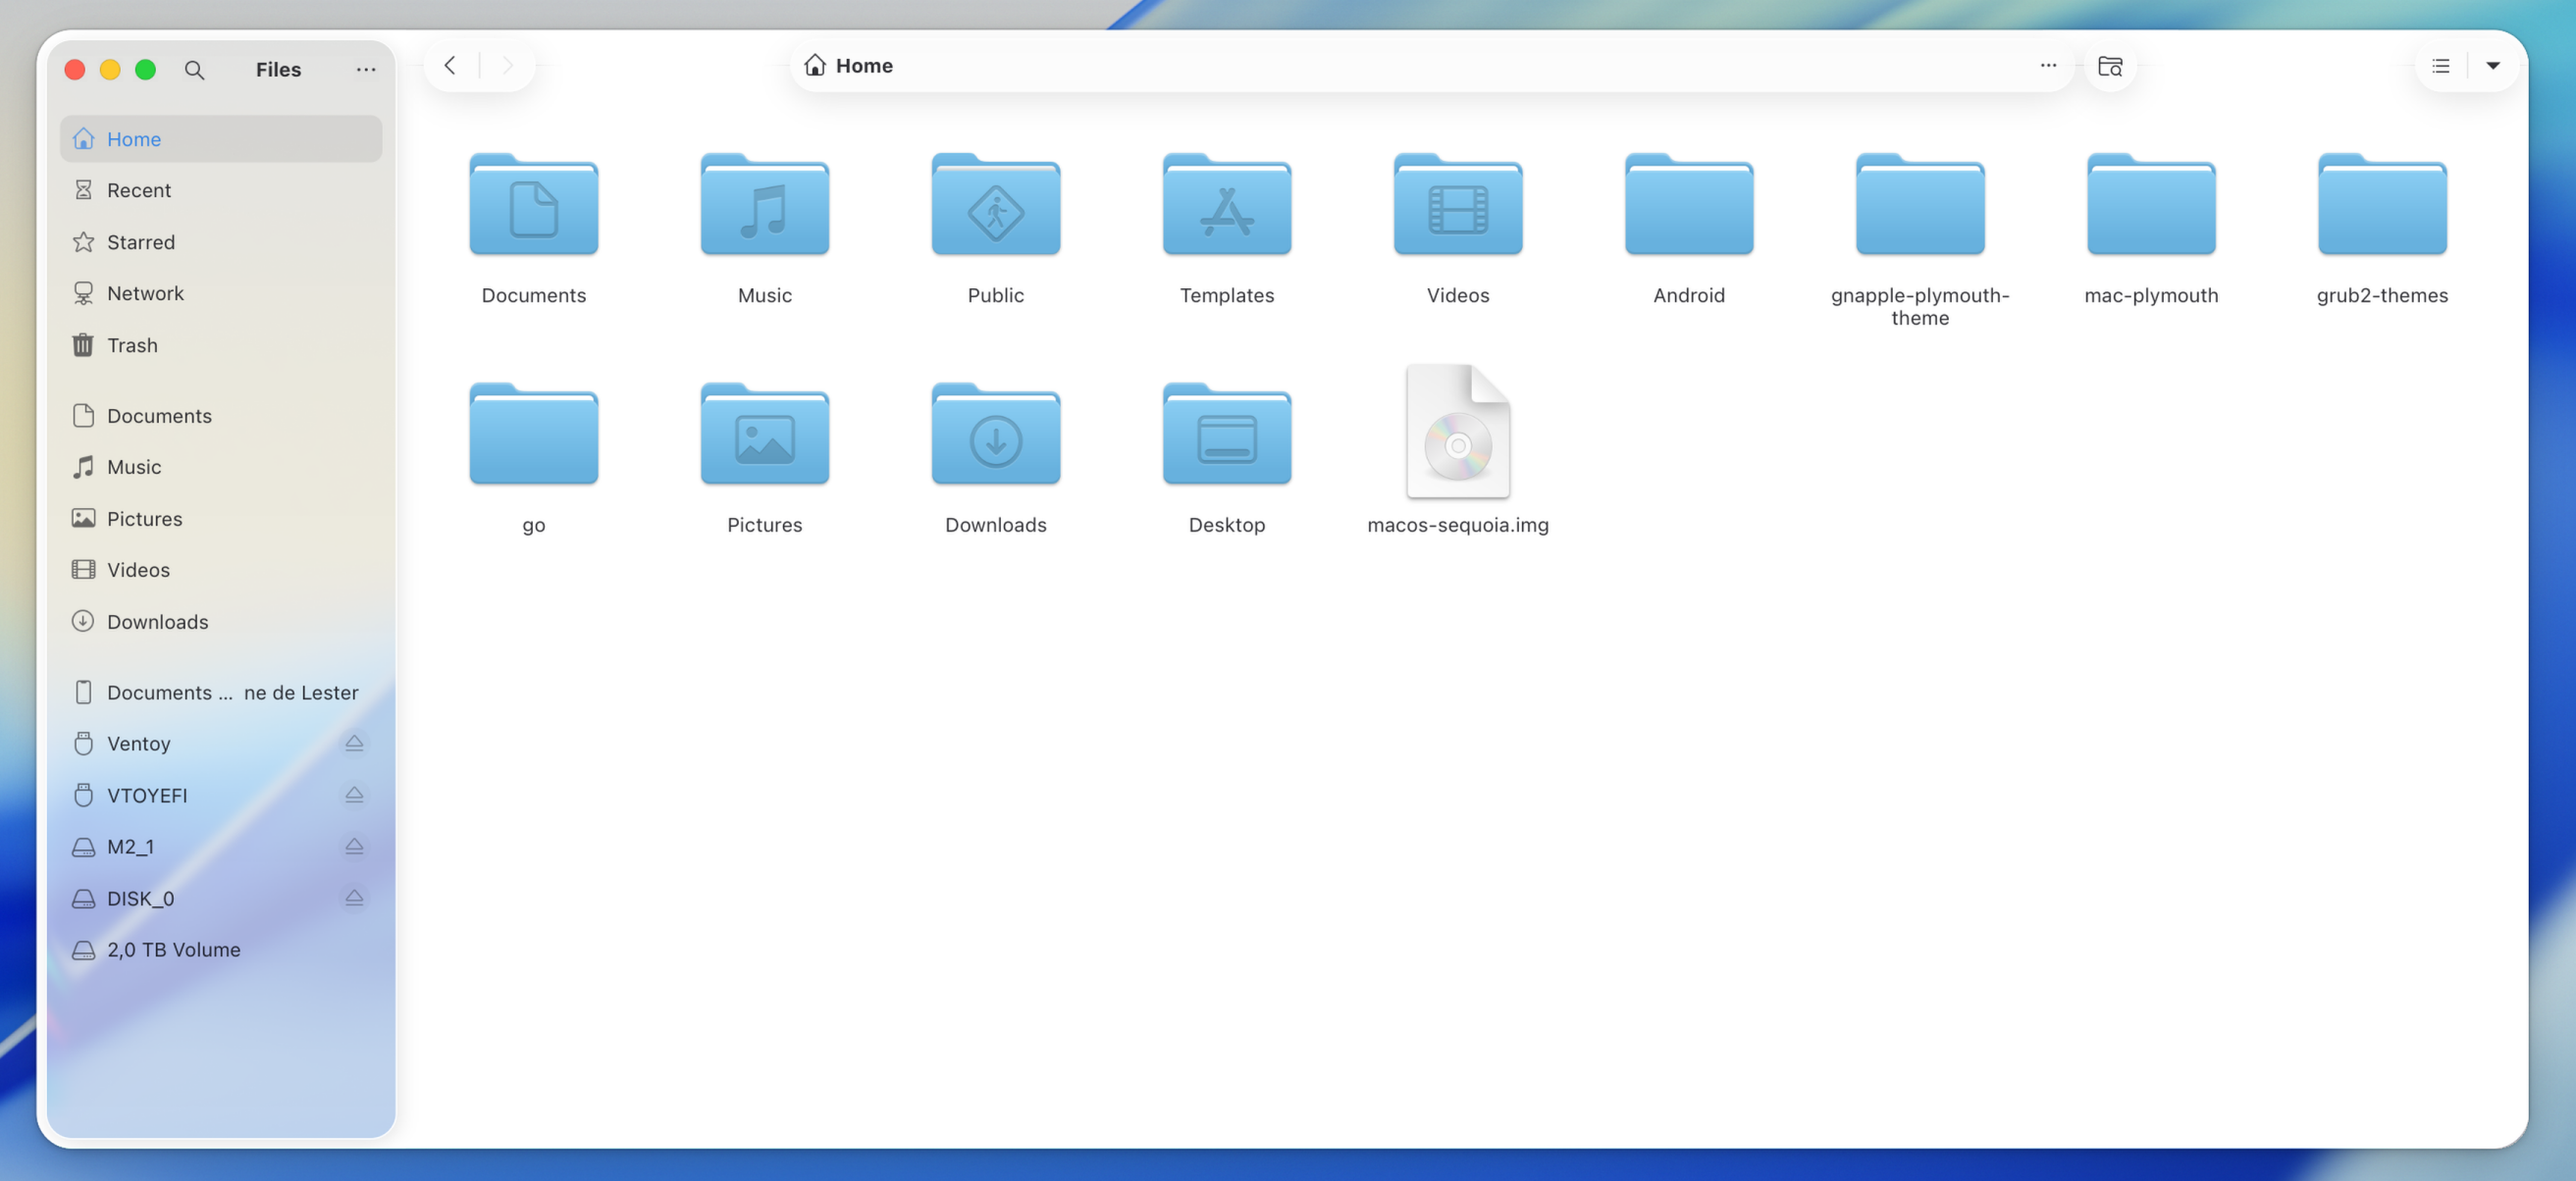
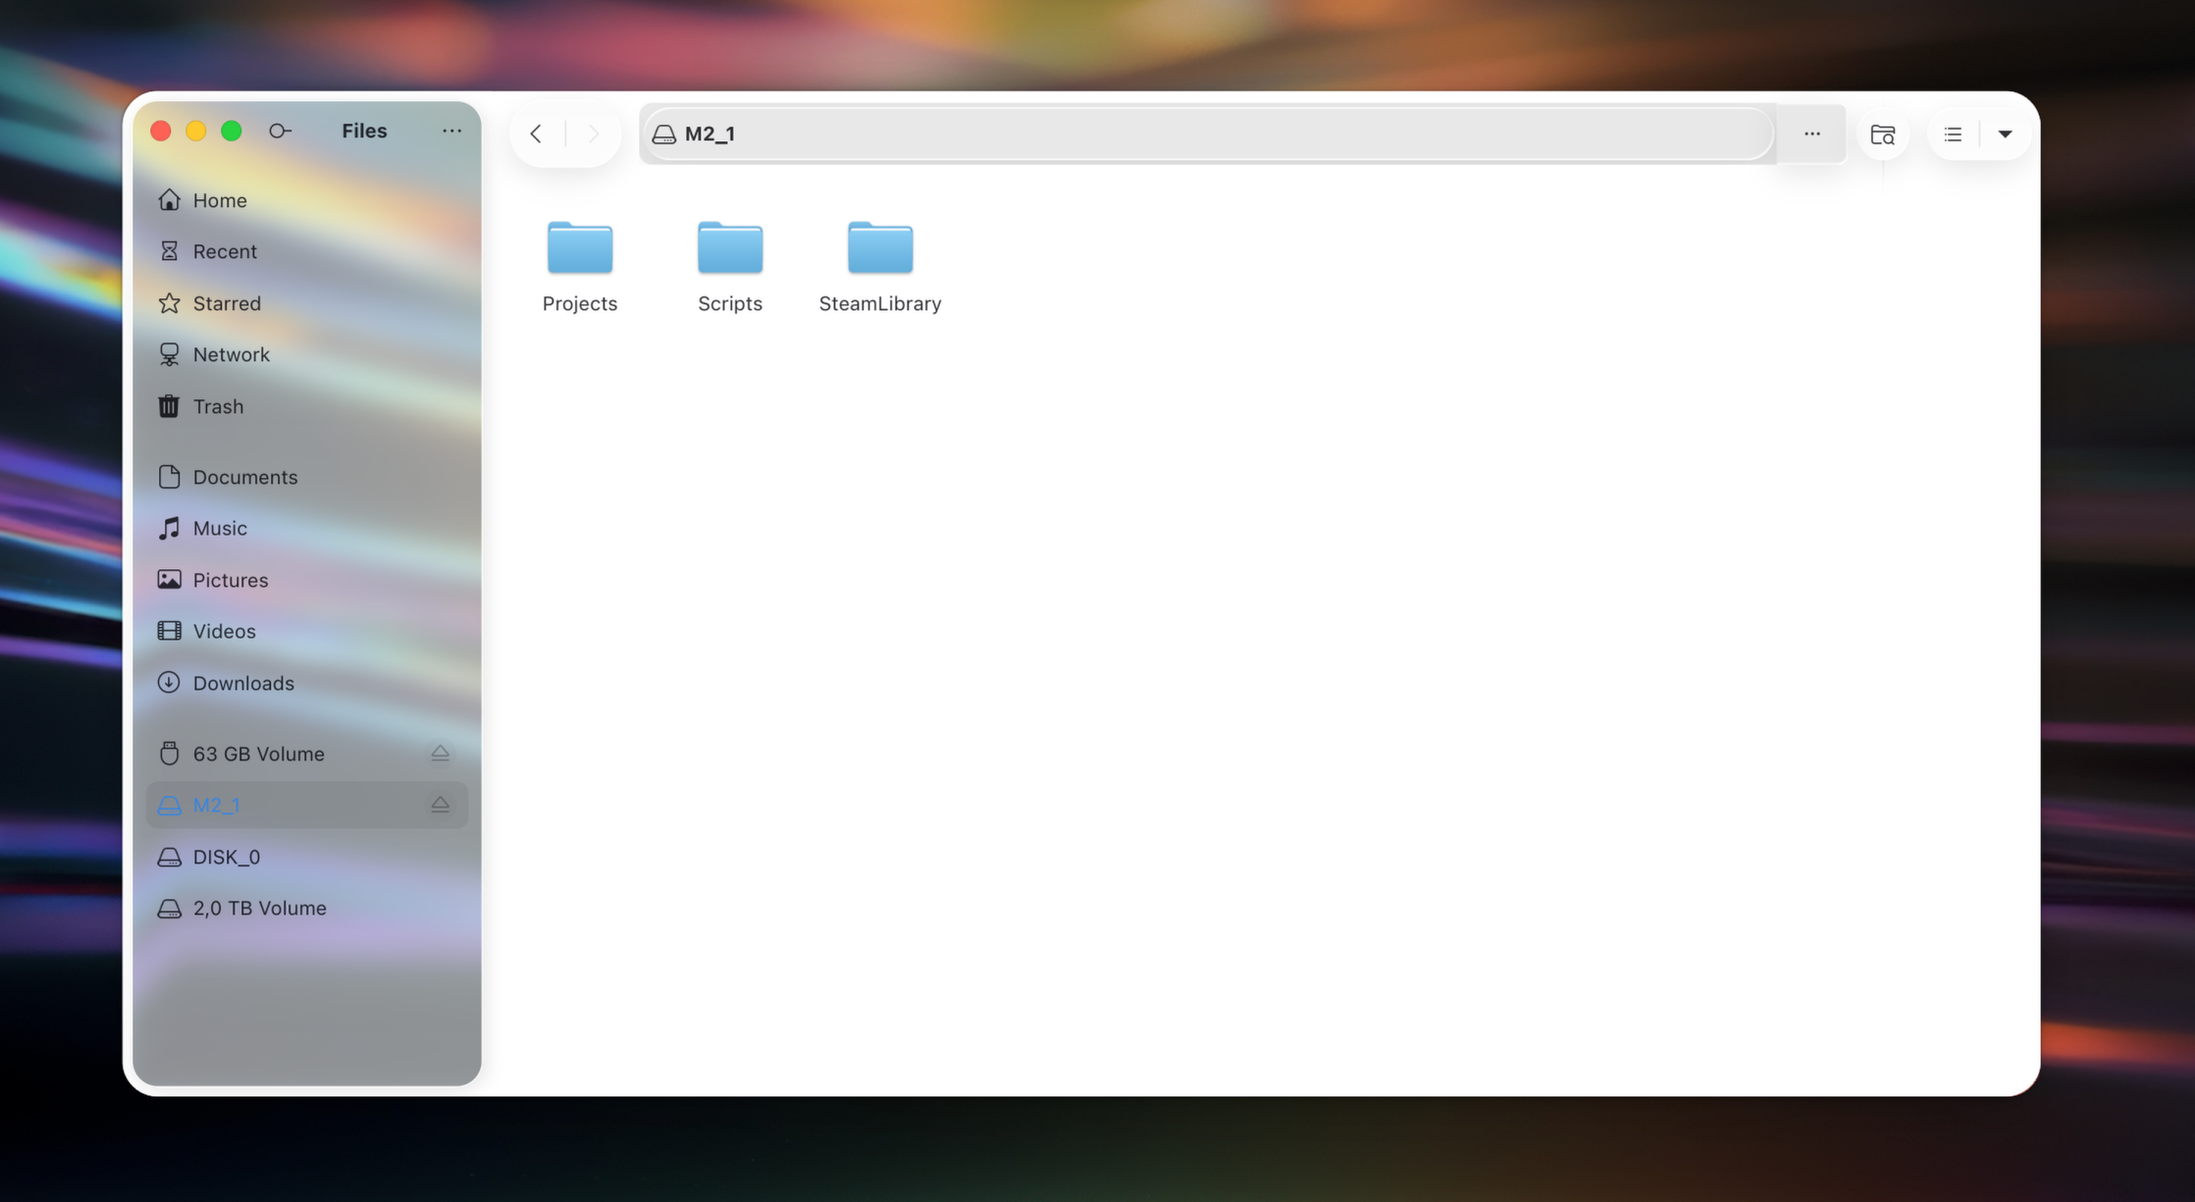
README: Tahoe Finder light/dark pair
Pair finder.png and finder_dark.png side-by-side and refresh both screenshots
to match the +15% Nautilus card opacity bump shipped in v0.12.0.

diff --git a/README.md b/README.md
@@ -74,8 +74,12 @@ App grid with categories and search.
 Nautilus file manager with macOS-style sidebar.
 
 <p align="center">
-  <img src="src/screenshots/finder.png" width="600"><br>
-  <sub>Nautilus file manager with macOS-style sidebar.</sub>
+  <img src="src/screenshots/finder.png" width="290">
+  <img src="src/screenshots/finder_dark.png" width="290">
+</p>
+
+<p align="center">
+  <sub>Example of Light and Dark variant.</sub>
 </p>
 
 ### Plasma Theme
